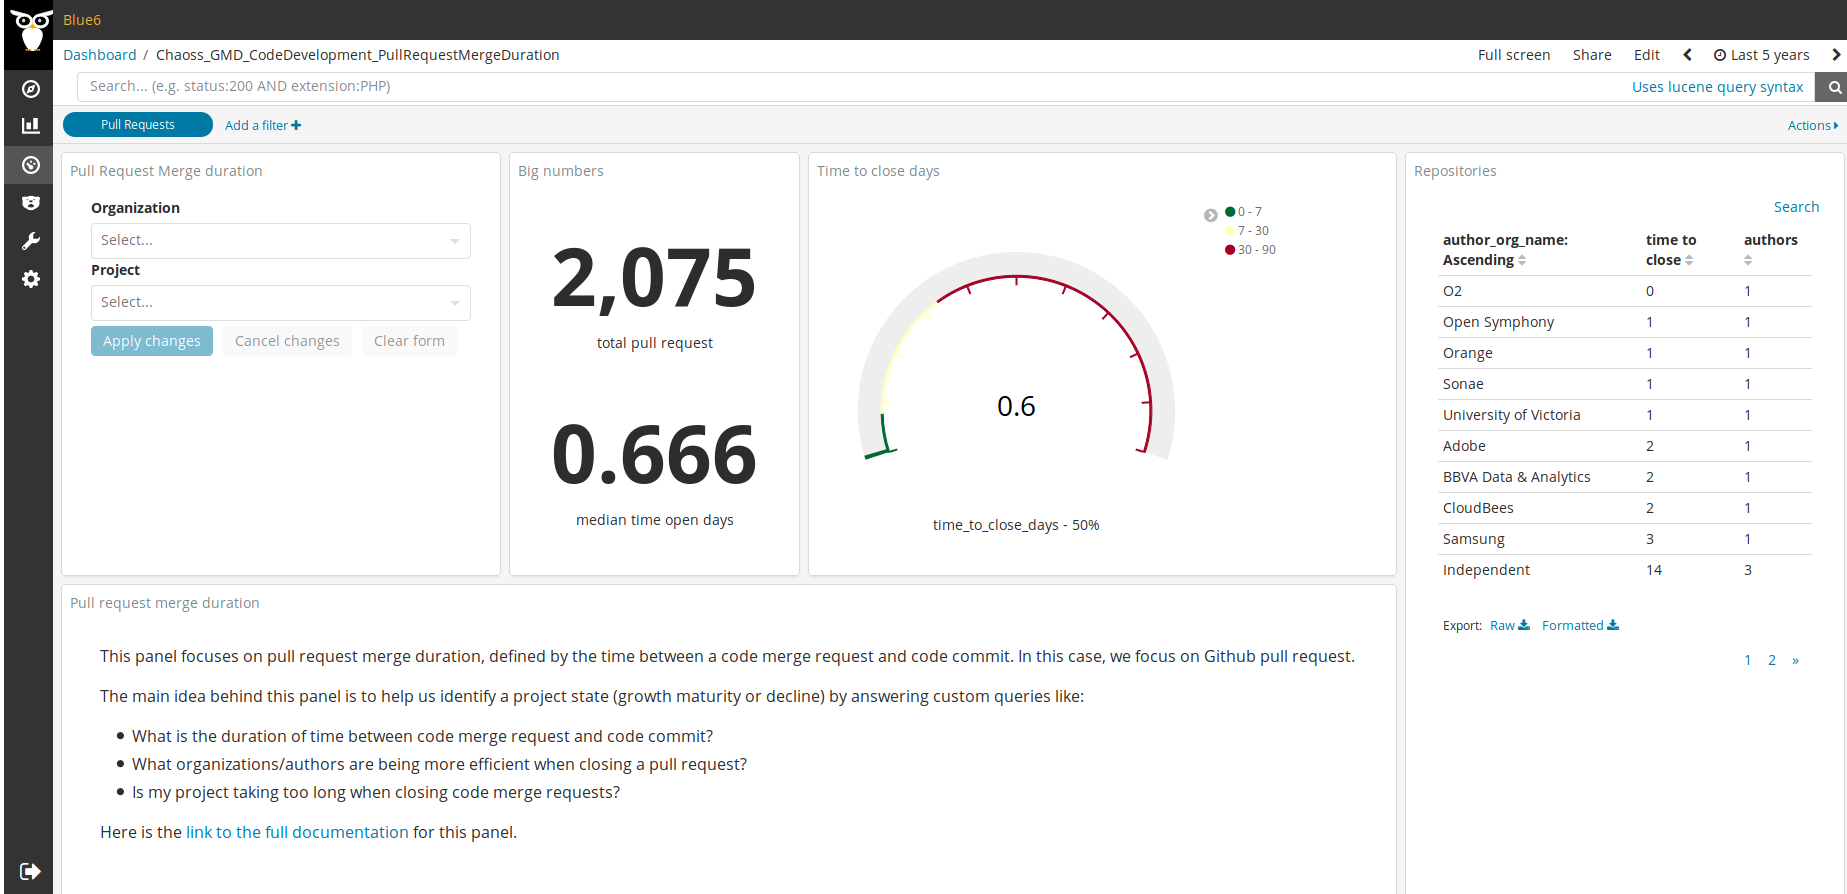
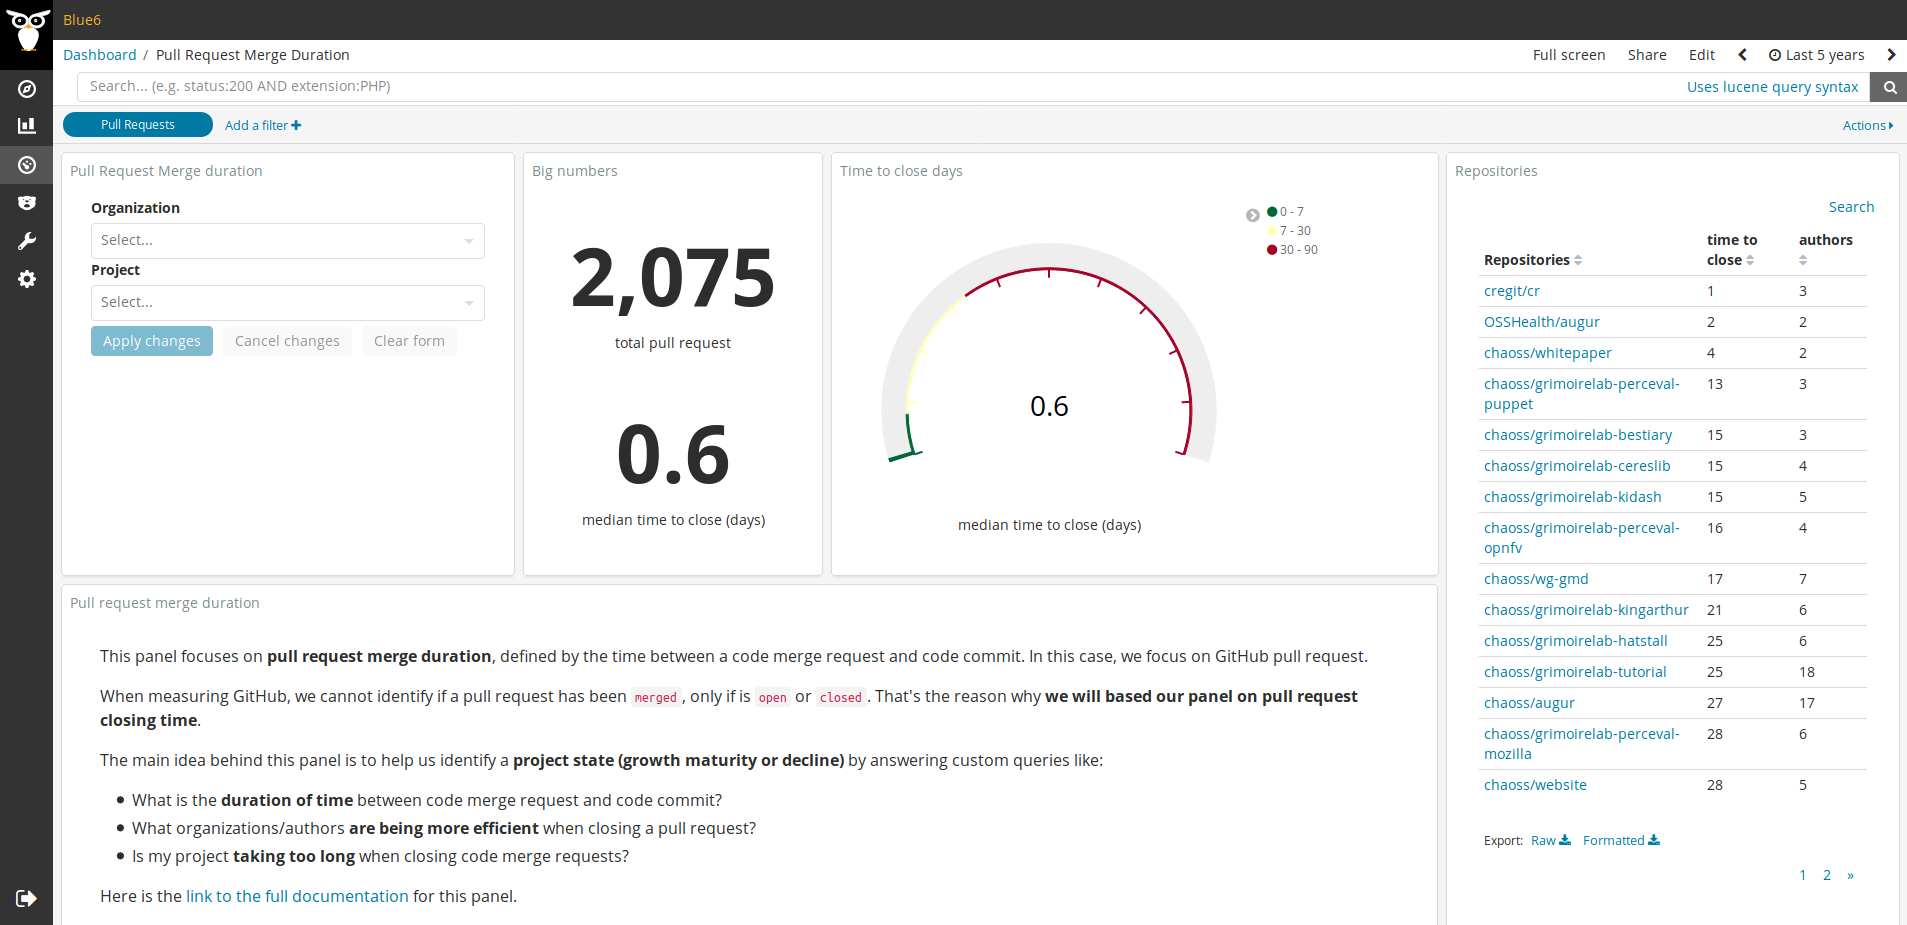
Update panel and documentation for PR merge duration panel
Updated files: json file (panel), screenshot and markdown file

diff --git a/docs/_chaoss-gmd-cde/pull_request_merge_duration.md b/docs/_chaoss-gmd-cde/pull_request_merge_duration.md
@@ -11,7 +11,7 @@ layout: panel
 This panel focuses on **Pull request merge duration**.
 
 
-This panel focuses on pull request merge duration, defined by the time between a code merge request and code commit. In this case, we focus on Github pull request. When we measure Github, we cannot identify if a pull request has been merged, only if is open or closed. That's the reason why we will based our panel on pull request closing time
+This panel focuses on pull request merge duration, defined by the time between a code merge request and code commit. In this case, we focus on Github pull requests. When we measure Github, we cannot identify if a pull request has been merged, only if is open or closed. That's the reason why we will based our panel on pull request closing time
 
 The main idea behind this panel is to help us identify a project state (growth maturity or decline) by answering custom queries like:
 * **What is the duration of time between code merge request and code commit?**
@@ -21,15 +21,15 @@ The main idea behind this panel is to help us identify a project state (growth m
 
 ### What should I look for in the panel?
 
-You can see if a pull request is taking too long to be merged by looking at gauge visualization. You can set up time ranges to help you visualize different scenarions (e.g fast, medium or slow response)
+We can visualize time to close in that specific time frame. For instance, how good or bad we were closing pull request created last year, two years ago or last week.
 
 Moreover, you can filter pull request merge duration by author or organization to compare different resuts and see how many pull requests have been merged over a period of time
 
 ### List of metrics provided on the panel
-* **Gauge visualization**: median time to close pull requests over a period of time
-* **Organizarion list based on closed pull requests**: time to close pull request filtered by organization name and number of authors involve on each organization
-* **Number of pull requests**: Amount of pull requests over a period of time
-* **Median time open days**: median time to close pull request during the selected time range
+* **Gauge visualization**: median time to close pull requests over a period of time.
+* **Organization list based on closed pull requests**: time to close pull requests filtered by organization name and number of authors involved on each organization.
+* **Number of pull requests**: Amount of pull requests over a period of time.
+* **Median time open days**: median time to close pull request during the selected time range.
 
 
 ![Pull Request Merge Duration]({{ site.baseurl }}/assets/images/chaoss-gmd-cde/pull_request_merge_duration.png)
